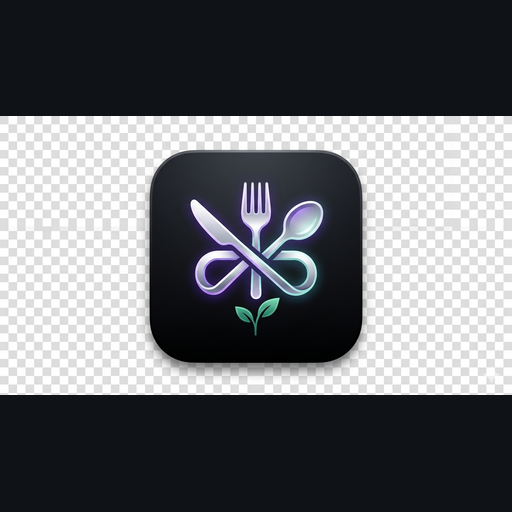
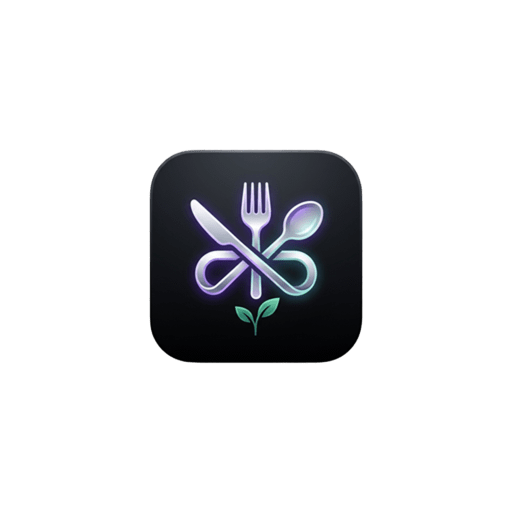
Updates

diff --git a/index.html b/index.html
@@ -1,1 +1,1 @@
-<!doctype html><html lang="es"><head><meta charset="utf-8"/><meta name="viewport" content="width=device-width,initial-scale=1,viewport-fit=cover"/><meta name="theme-color" content="#0F1216"/><meta name="mobile-web-app-capable" content="yes"/><meta name="apple-mobile-web-app-capable" content="yes"/><meta name="apple-mobile-web-app-status-bar-style" content="black-translucent"/><meta name="apple-mobile-web-app-title" content="Nutry"/><link rel="manifest" href="/app-nutry/manifest.json"/><link rel="preconnect" href="https://fonts.googleapis.com"/><link rel="preconnect" href="https://fonts.gstatic.com" crossorigin/><link href="https://fonts.googleapis.com/css2?family=Inter:wght@400;500;600;700&display=swap" rel="stylesheet"/><title>Nutry</title><script defer="defer" src="/app-nutry/static/js/main.d1fdf00a.js"></script><link href="/app-nutry/static/css/main.ca141a06.css" rel="stylesheet"></head><body><div id="root"></div></body></html>
+<!doctype html><html lang="es"><head><meta charset="utf-8"/><meta name="viewport" content="width=device-width,initial-scale=1,viewport-fit=cover"/><meta name="theme-color" content="#0F1216"/><meta name="mobile-web-app-capable" content="yes"/><meta name="apple-mobile-web-app-capable" content="yes"/><meta name="apple-mobile-web-app-status-bar-style" content="black-translucent"/><meta name="apple-mobile-web-app-title" content="Nutry"/><link rel="manifest" href="/app-nutry/manifest.json"/><link rel="preconnect" href="https://fonts.googleapis.com"/><link rel="preconnect" href="https://fonts.gstatic.com" crossorigin/><link href="https://fonts.googleapis.com/css2?family=Inter:wght@400;500;600;700&display=swap" rel="stylesheet"/><title>Nutry</title><script defer="defer" src="/app-nutry/static/js/main.2fb2566d.js"></script><link href="/app-nutry/static/css/main.ca141a06.css" rel="stylesheet"></head><body><div id="root"></div></body></html>